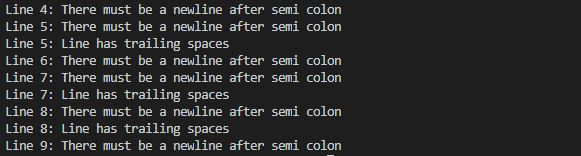
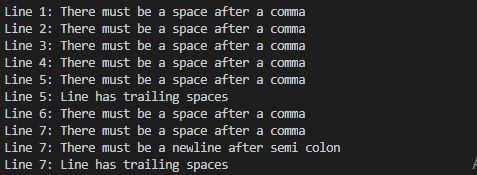
Fix errors

diff --git a/test.css b/test.css
@@ -1,0 +1,9 @@
+.app {
+    width: 2px;
+    height: 1px;
+    }
+   
+    .divider, .visual{
+        width:0 
+   
+    }

diff --git a/lib/linter.rb b/lib/linter.rb
@@ -6,27 +6,31 @@ require_relative('../lib/rules/spaces_comma.rb')
 require_relative('../lib/rules/trailing_spaces.rb')
 require_relative('../lib/rules/zero_values.rb')
 
+# Linter
 class Linter
-  def initialize(csvdata)
-    @csvdata = csvdata
+  RULES = [CommaSpaces.new, EmptyLine.new, Indentation.new,
+           NewLineSemiColon.new, SpacesComma.new, TrailingSpaces.new, ZeroValues.new].freeze
+  def initialize(csv_data)
+    @csv_data = csv_data
+    @lines = @csv_data.split("\n")
   end
 
   def lint
-    rules = [CommaSpaces.new, EmptyLine.new, Indentation.new]
-    rules = [NewLineSemiColon.new, SpacesComma.new, TrailingSpaces.new, ZeroValues.new]
     errors = {}
-    lines = @csvdata.split("\n")
     block_open = false
-    lines.each_with_index do |line, index|
-      rules.map do |rule|
-        result = rule.analyze(line, index, lines.length, block_open ? 'block' : 'outside')
-        unless result
-          errors[index + 1] = errors[index + 1] || []
-          errors[index + 1] << rule.class::MESSAGE
-        end
+    @lines.each_with_index do |line, index|
+      block_open = false if line =~ /\}/
+      RULES.map do |rule|
+        result = rule.analyze(line, index, @lines.length, block_open ? 'block' : 'outside')
+        add_to_errors(errors, index, rule) unless result
       end
       block_open = true if line =~ /\{/
     end
     errors
+  end
+
+  def add_to_errors(errors, index, rule)
+    errors[index + 1] = errors[index + 1] || []
+    errors[index + 1] << rule.class::MESSAGE
   end
 end

diff --git a/bin/main.rb b/bin/main.rb
@@ -1,10 +1,13 @@
 require_relative('../lib/linter')
 
-File.open('./bin/test.css', 'r') do |f|
+filename = ARGV[0]
+File.open(filename, 'r') do |f|
   data = f.read
   linter = Linter.new(data)
   errors = linter.lint
-  puts 'There are no issues detected' if errors.length <= 0
+  # puts errors
+  puts 'There are no issues' if errors.length <= 0
+
   errors.each do |key, value|
     value.each do |error|
       puts "Line #{key}: #{error}"
